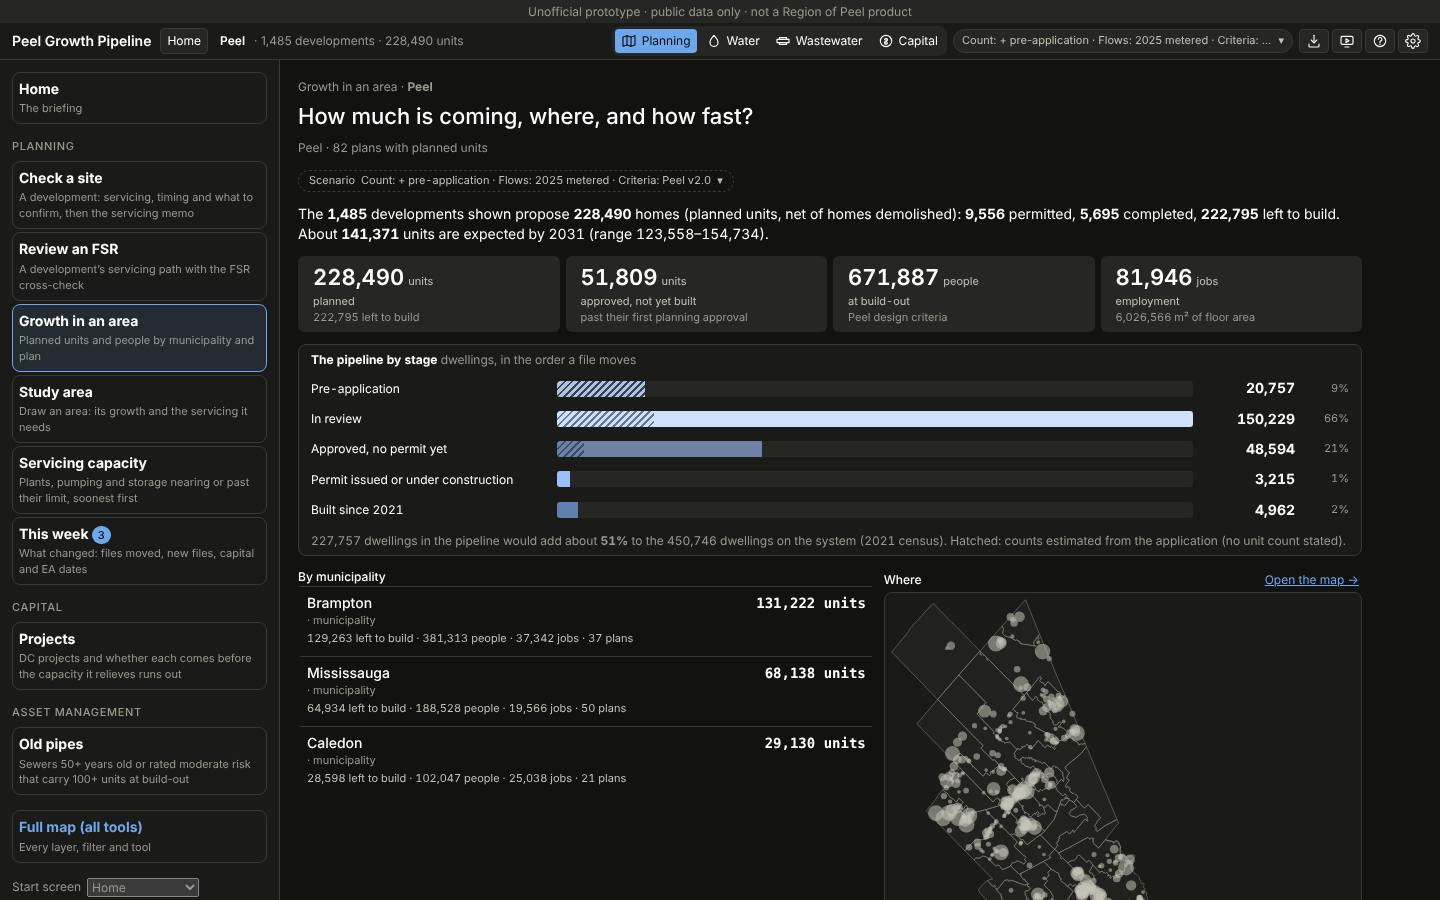
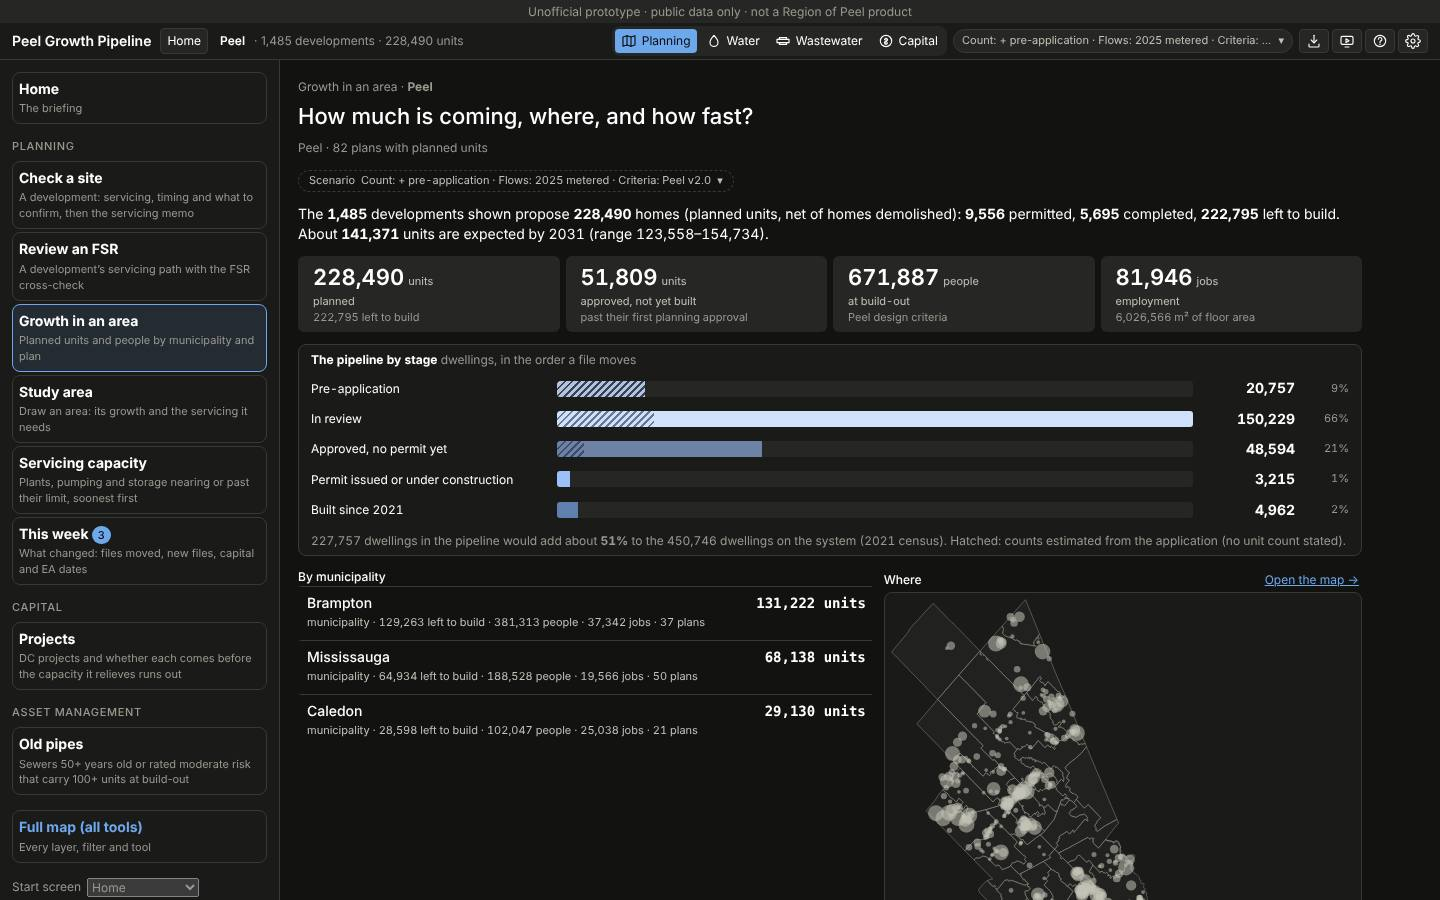
Growth in an area: estimated counts at every level (files to confirm); area kind on the detail line
Claude-Session: https://claude.ai/code/session_01E9zDvm6xW3ynJ788gjwVZS

Changed region(s): [[0.2188, 0.6844, 0.5, 0.8711], [0.5312, 0.7156, 0.5938, 0.84]]

diff --git a/js/ws-pages.js b/js/ws-pages.js
@@ -28,7 +28,7 @@
   const chipHTML = s => (s ? `<span class="pnl-chip t-${esc(s.tone || 'stage')}">${esc(s.text || TONE_WORD[s.tone] || '')}</span>` : '');
   function listHTML(l) {
     if (!l || !l.rows || !l.rows.length) return '';
-    return `<section class="pnl-list page-list" data-psec="list"><div class="pnl-list-h"><h3>${esc(l.title)}</h3>${l.tools || ''}${l.see && (l.all || l.total > Math.min(5, l.rows.length)) ? `<button type="button" class="btn small link"${attrs(l.see)}>${l.all ? 'Show fewer' : `See all (${fmtNum(l.total)}) →`}</button>` : ''}</div>
+    return `<section class="pnl-list page-list" data-psec="list"><div class="pnl-list-h"><h3>${esc(l.title)}</h3>${l.tools || ''}${l.see && (l.all || l.total > Math.min(5, l.rows.length)) ? `<button type="button" class="btn small link"${attrs(l.see)}>${l.all ? 'Show fewer' : `See all (${fmtNum(l.seeN != null ? l.seeN : l.total)}) →`}</button>` : ''}</div>
       <ul>${l.rows.slice(0, l.all ? l.rows.length : 5).map(r => `<li class="pnl-row${r.kv ? ' kv' : ''}${r.tone ? ` t-${esc(r.tone)}` : ''}"${r.attrs ? `${attrs(r.attrs)} tabindex="0" role="button"` : ''}>${r.html}</li>`).join('')}</ul></section>`;
   }
   function pageHTML(m, note) {
@@ -123,6 +123,26 @@
     if (L.layer === 'committed') { const c = L.parts.committed || 0; return Math.min(c, L.toPermit || 0) >= c / 2 ? 'approved' : 'permitted'; }
     return L.layer === 'existing' ? 'built' : L.layer;
   }
+  // Estimated counts (the hatching): a file whose units are not stated on it but found online, from a
+  // pre-consultation, from the wording or from building permits (js/layers.js ESTIMATED). Each file's
+  // estimate is what it has left to build (ofDev().estimated), its share in the area, split over the
+  // kinds of estimate it holds. → { units, files: [{ p, share, est, kinds }], byKind }, largest first.
+  const EST_KINDS = { online: 'found online', precon: 'pre-consultation estimate', estimate: 'estimate from the wording', permits: 'from building permits' };
+  function estimateRows(devs, ofDev) {
+    const files = [], byKind = {};
+    let units = 0;
+    for (const it of devs) {
+      const p = it && it.p ? it.p : it, sh = it && it.p ? it.share : 1;
+      const L = ofDev(p); if (!L || !(L.estimated > 0)) continue;
+      const est = L.estimated * sh, parts = ((p.count && p.count.parts) || []).filter(x => EST_KINDS[x.kind] && x.units > 0);
+      const raw = parts.reduce((t, x) => t + x.units, 0), kinds = {};
+      for (const x of parts) kinds[x.kind] = (kinds[x.kind] || 0) + est * x.units / raw;
+      for (const k in kinds) byKind[k] = (byKind[k] || 0) + kinds[k];
+      units += est; files.push({ p, share: sh, est, kinds });
+    }
+    files.sort((a, b) => b.est - a.est);
+    return { units, files, byKind };
+  }
   // One bar per stage, labelled directly; the scale is the largest stage. census: dwellings on the
   // system (2021) for the context line.
   function stageChartHTML(st, census) {
@@ -145,7 +165,7 @@
     ['Fire flow (Fire Underwriters Survey) and pressures', 'eye', 'Not modelled here'],
   ];
 
-  const api = { pageHTML, sectionsOf, listHTML, reserveRows, pipeGrid, likeOf, consOf, LIKE, CONS, approvedNotBuilt, COVERAGE, STAGES, stageRows, stageOf, stageChartHTML };
+  const api = { pageHTML, sectionsOf, listHTML, reserveRows, pipeGrid, likeOf, consOf, LIKE, CONS, approvedNotBuilt, COVERAGE, STAGES, stageRows, stageOf, stageChartHTML, EST_KINDS, estimateRows };
   if (typeof document === 'undefined' || typeof module !== 'undefined' && module.exports) {
     if (typeof module !== 'undefined' && module.exports) module.exports = api;
     return;
@@ -349,7 +369,7 @@
     const f2031 = atPeel && tm && tm.figures ? tm.figures.find(f => /2031/.test(f.label)) : null;
     // The next level down (municipalities, plans, precincts and sub-areas), each opening its own level.
     const kids = n.children.filter(c => c.m.planned >= 0.5 || c.m.jobs >= 0.5).sort((x, y) => y.m.planned - x.m.planned);
-    const kidRow = c => ({ attrs: { 'data-ws-drill': c.id, title: `Open ${c.name}` }, html: `<div class="pnl-r-top"><span class="pnl-r-name">${esc(c.name)}<small class="muted"> · ${esc(kind(c))}</small></span><span class="pnl-r-year">${n0(c.m.planned)} units</span></div><small class="pnl-r-line">${n0(c.m.left)} left to build · ${n0(c.m.people)} people${c.m.jobs >= 0.5 ? ` · ${n0(c.m.jobs)} jobs` : ''}${c.children.length ? ` · ${c.children.length} ${c.kind === 'municipality' ? 'plans' : 'parts'}` : ''}</small>` });
+    const kidRow = c => ({ attrs: { 'data-ws-drill': c.id, title: `Open ${c.name}` }, html: `<div class="pnl-r-top"><span class="pnl-r-name">${esc(c.name)}</span><span class="pnl-r-year">${n0(c.m.planned)} units</span></div><small class="pnl-r-line">${esc(kind(c))} · ${n0(c.m.left)} left to build · ${n0(c.m.people)} people${c.m.jobs >= 0.5 ? ` · ${n0(c.m.jobs)} jobs` : ''}${c.children.length ? ` · ${c.children.length} ${c.kind === 'municipality' ? 'plans' : 'parts'}` : ''}</small>` });
     // At Peel, the largest plans too (straight to their level).
     const plans = atPeel ? [...r.nodes.values()].filter(x => x.kind === 'plan' && x.m.planned >= 0.5).sort((x, y) => y.m.planned - x.m.planned) : [];
     // The area's files, by stage (the bars filter them): pre-application to built.
@@ -357,6 +377,13 @@
     const files = items.map(({ p, share }) => ({ p, share, st: Ly ? stageOf(Ly.ofDev(p)) : null })).filter(x => x.st && (gStage === 'all' || x.st === gStage) && (x.p.units || 0) > 0).sort((x, y) => y.p.units * y.share - x.p.units * x.share);
     const tools = `<div class="seg" role="group" aria-label="Stage"><button type="button" class="btn small${gStage === 'all' ? ' on' : ''}" data-ws-stage="all" aria-pressed="${gStage === 'all'}">All</button>${STAGES.map(([k, l]) => `<button type="button" class="btn small${gStage === k ? ' on' : ''}" data-ws-stage="${k}" aria-pressed="${gStage === k}">${esc(l.replace(' or under construction', ' / building'))}</button>`).join('')}</div>`;
     const fileRow = x => ({ attrs: { 'data-ws-pick': x.p.key, 'data-ws-as': 'site', title: `Check ${x.p.title}` }, html: `<div class="pnl-r-top"><span class="pnl-r-name">${esc(x.p.title)}</span><span class="pnl-r-year">${n0(x.p.units * x.share)} units</span></div><small class="pnl-r-line">${esc(STG[x.st] || '')} · ${esc(Ph && Ph.PHASE_BY_KEY[x.p.phase] ? Ph.PHASE_BY_KEY[x.p.phase].label : x.p.phase)} · ${esc(x.p.municipality)}${x.share < 0.99 ? ` · ${Math.round(x.share * 100)}% in this area` : ''}</small>` });
+    // Estimated counts in this area (at the chosen stage): how much of the pipeline is not stated on a file.
+    const es = Ly && Ly.ofDev ? estimateRows(items.filter(({ p }) => gStage === 'all' || stageOf(Ly.ofDev(p)) === gStage), q => Ly.ofDev(q)) : null;
+    const pipeU = stage ? (gStage === 'all' ? stage.total : (stage.rows.find(x => x.key === gStage) || {}).units || 0) : 0;
+    const estRows = es && es.files.length ? [
+      { kv: true, html: `<span><strong>${n0(es.units)}</strong> of ${n0(pipeU)} dwellings${pipeU > 0 ? ` (${Math.round(es.units / pipeU * 100)}%)` : ''} are estimated, in ${fmtNum(es.files.length)} ${es.files.length === 1 ? 'file' : 'files'} with no unit count stated: ${Object.entries(es.byKind).sort((a, b) => b[1] - a[1]).map(([k, v]) => `${n0(v)} ${esc(EST_KINDS[k])}`).join(', ')}. Confirm these counts with the municipality.</span>` },
+      ...es.files.map(x => ({ attrs: { 'data-ws-pick': x.p.key, 'data-ws-as': 'site', title: `Check ${x.p.title}` }, html: `<div class="pnl-r-top"><span class="pnl-r-name">${esc(x.p.title)}</span><span class="pnl-r-year">${n0(x.est)} est.</span></div><small class="pnl-r-line">${esc(Object.keys(x.kinds).map(k => EST_KINDS[k]).join(' + '))} · ${esc(STG[stageOf(Ly.ofDev(x.p))] || '')} · ${esc(x.p.municipality)}${x.share < 0.99 ? ` · ${Math.round(x.share * 100)}% in this area` : ''}</small>` })),
+    ] : [];
     const empRows = emp.planned >= 1 ? [
       { kv: true, html: `<div class="pnl-kv"><span>Floor area planned</span><span>${n0(emp.planned)} m² · ≈${n0(emp.jobs)} jobs</span></div>` },
       { kv: true, html: `<div class="pnl-kv"><span>Permitted</span><span>${n0(emp.permitted)} m²</span></div>` },
@@ -387,21 +414,23 @@
         kids.length ? { title: atPeel ? 'By municipality' : n.kind === 'municipality' ? 'Plans (secondary plans, character areas) and the rest' : 'Precincts and sub-areas', rows: kids.map(kidRow), total: kids.length, see: kids.length > 5 ? { 'data-ws-drillall': n.id } : null, all: gAll } : null,
         atPeel ? { title: 'Plans with the most planned units', rows: plans.map(kidRow), total: plans.length, see: { 'data-ws-go': 'growth', 'data-ws-fulltable': 'growth:areas' } } : null,
         { title: gStage === 'all' ? `Files in ${n.name}` : `${STG[gStage]}: files in ${n.name}`, tools, rows: files.length ? files.map(fileRow) : [{ kv: true, html: `<span class="muted">No files ${gStage === 'all' ? 'with planned units' : `at ${esc((STG[gStage] || '').toLowerCase())}`} in ${esc(n.name)}.</span>` }], total: files.length, see: n.areaId ? { 'data-ws-go': 'growth', 'data-ws-area': n.areaId } : { 'data-ws-go': 'growth' } },
+        estRows.length ? { title: gStage === 'all' ? 'Estimated counts: files to confirm' : `${STG[gStage]}: estimated counts`, rows: estRows, total: estRows.length, seeN: es.files.length, see: estRows.length > 5 ? { 'data-ws-estall': '1' } : null, all: gEst } : null,
         empRows.length ? { title: 'Employment', rows: empRows, total: empRows.length } : null,
         ...(atPeel ? (pl.lists || []).filter(l => /municipality/i.test(l.title)) : []),
       ],
       map: { svg: mapSvg, attrs: n.areaId ? { 'data-ws-go': 'growth', 'data-ws-area': n.areaId } : { 'data-ws-go': 'growth' }, label: `Show ${n.name} on the map`, caption: ring ? `${esc(n.name)} outlined; its developments sized by units` : 'Developments sized by units' },
-      method: `${pl.method} Drill-down: Growth › Areas' plan tree (Peel, municipality, secondary plan or character area, precinct or sub-area, then "not in a plan" and "elsewhere in the plan"); every level equals the sum of the levels under it, and a site split between plans counts its share. The stages follow a file: pre-application (pre-consultation, block or precinct plan), in review, approved (draft or site plan approved; split on whether its building permits are issued), built since the 2021 census. Employment: the floor area the applications state and the jobs it holds at Peel's floor space per job.${tm && atPeel ? ` ${tm.method}` : ''}`,
+      method: `${pl.method} Drill-down: Growth › Areas' plan tree (Peel, municipality, secondary plan or character area, precinct or sub-area, then "not in a plan" and "elsewhere in the plan"); every level equals the sum of the levels under it, and a site split between plans counts its share. The stages follow a file: pre-application (pre-consultation, block or precinct plan), in review, approved (draft or site plan approved; split on whether its building permits are issued), built since the 2021 census. Estimated counts: a file's units left to build that are not stated on it (found online, a pre-consultation estimate, an estimate from the wording, or counted from building permits), the hatching on the stage bars. Employment: the floor area the applications state and the jobs it holds at Peel's floor space per job.${tm && atPeel ? ` ${tm.method}` : ''}`,
       sources: pl.sources,
       actions: [{ label: 'Area report (PDF)', attrs: { 'data-area-report': 'shown' }, primary: true }, { label: 'Show on the map', attrs: n.areaId ? { 'data-ws-go': 'growth', 'data-ws-area': n.areaId } : { 'data-ws-go': 'growth' } }, !atPeel ? { label: '↑ Up a level', attrs: { 'data-ws-drill': n.parent || 'peel' } } : null] };
   }
-  let gAll = false;
+  let gAll = false, gEst = false;
   document.addEventListener('click', e => {
-    const t = e.target.closest && e.target.closest('[data-ws-drill],[data-ws-stage],[data-ws-drillall]'); if (!t || !document.getElementById('home') || !document.getElementById('home').contains(t)) return;
+    const t = e.target.closest && e.target.closest('[data-ws-drill],[data-ws-stage],[data-ws-drillall],[data-ws-estall]'); if (!t || !document.getElementById('home') || !document.getElementById('home').contains(t)) return;
     e.preventDefault(); e.stopPropagation();
-    if (t.dataset.wsDrill) { gAt = t.dataset.wsDrill; gStage = 'all'; gAll = false; const h = document.getElementById('home'); if (h) h.scrollTop = 0; }
+    if (t.dataset.wsDrill) { gAt = t.dataset.wsDrill; gStage = 'all'; gAll = false; gEst = false; const h = document.getElementById('home'); if (h) h.scrollTop = 0; }
     else if (t.dataset.wsStage) gStage = gStage === t.dataset.wsStage ? 'all' : t.dataset.wsStage;
     else if (t.dataset.wsDrillall) gAll = !gAll;
+    else if (t.dataset.wsEstall) gEst = !gEst;
     if (W() && W().renderPage) W().renderPage(true);
   }, true);
   // ---- Projects ------------------------------------------------------------------------------------

diff --git a/tests/ws-pages.test.js b/tests/ws-pages.test.js
@@ -168,3 +168,24 @@ test('a development’s stage on the chart: its layer; an approved one by whethe
   const st = WP.stageRows([{ p: 'a', share: 0.25 }], () => ({ layer: 'proposed', parts: { proposed: 400 }, toPermit: 400 }));
   assert.equal(st.rows.find(r => r.key === 'proposed').units, 100);
 });
+
+test('estimated counts: a file’s units left to build not stated on it, its share, split over its kinds', () => {
+  const a = { key: 'a', count: { parts: [{ kind: 'stated', units: 100 }, { kind: 'precon', units: 300 }, { kind: 'online', units: 100 }] } };
+  const b = { key: 'b', count: { parts: [{ kind: 'stated', units: 50 }] } };
+  const c = { key: 'c', count: { parts: [{ kind: 'estimate', units: 80 }] } };
+  const L = { a: { layer: 'anticipated', estimated: 400 }, b: { layer: 'proposed', estimated: 0 }, c: { layer: 'proposed', estimated: 80 } };
+  const e = WP.estimateRows([{ p: a, share: 0.5 }, { p: b, share: 1 }, c], p => L[p.key]);
+  assert.equal(e.units, 280);
+  assert.deepEqual(plain(e.files.map(x => x.p.key)), ['a', 'c']);   // b states its count; largest first
+  assert.deepEqual(plain(e.byKind), { precon: 150, online: 50, estimate: 80 });
+  assert.deepEqual(plain(Object.keys(WP.EST_KINDS).sort()), ['estimate', 'online', 'permits', 'precon']);
+  // The same kinds as the hatching (js/layers.js ESTIMATED).
+  assert.match(src('js/layers.js'), /const ESTIMATED = new Set\(\['online', 'precon', 'estimate', 'permits'\]\)/);
+  // On the Growth page: a list at every level, at the chosen stage, its rows open Check a site.
+  const s = src('js/ws-pages.js');
+  assert.match(s, /estRows\.length \? \{ title: gStage === 'all' \? 'Estimated counts: files to confirm'/);
+  assert.match(s, /items\.filter\(\(\{ p \}\) => gStage === 'all' \|\| stageOf\(Ly\.ofDev\(p\)\) === gStage\)/);
+  assert.match(s, /\.\.\.es\.files\.map\(x => \(\{ attrs: \{ 'data-ws-pick': x\.p\.key, 'data-ws-as': 'site'/);
+  // The area kind sits on the detail line, not after the name (where it wrapped with a stray dot).
+  assert.match(s, /<span class="pnl-r-name">\$\{esc\(c\.name\)\}<\/span>.*<small class="pnl-r-line">\$\{esc\(kind\(c\)\)\} · /);
+});
